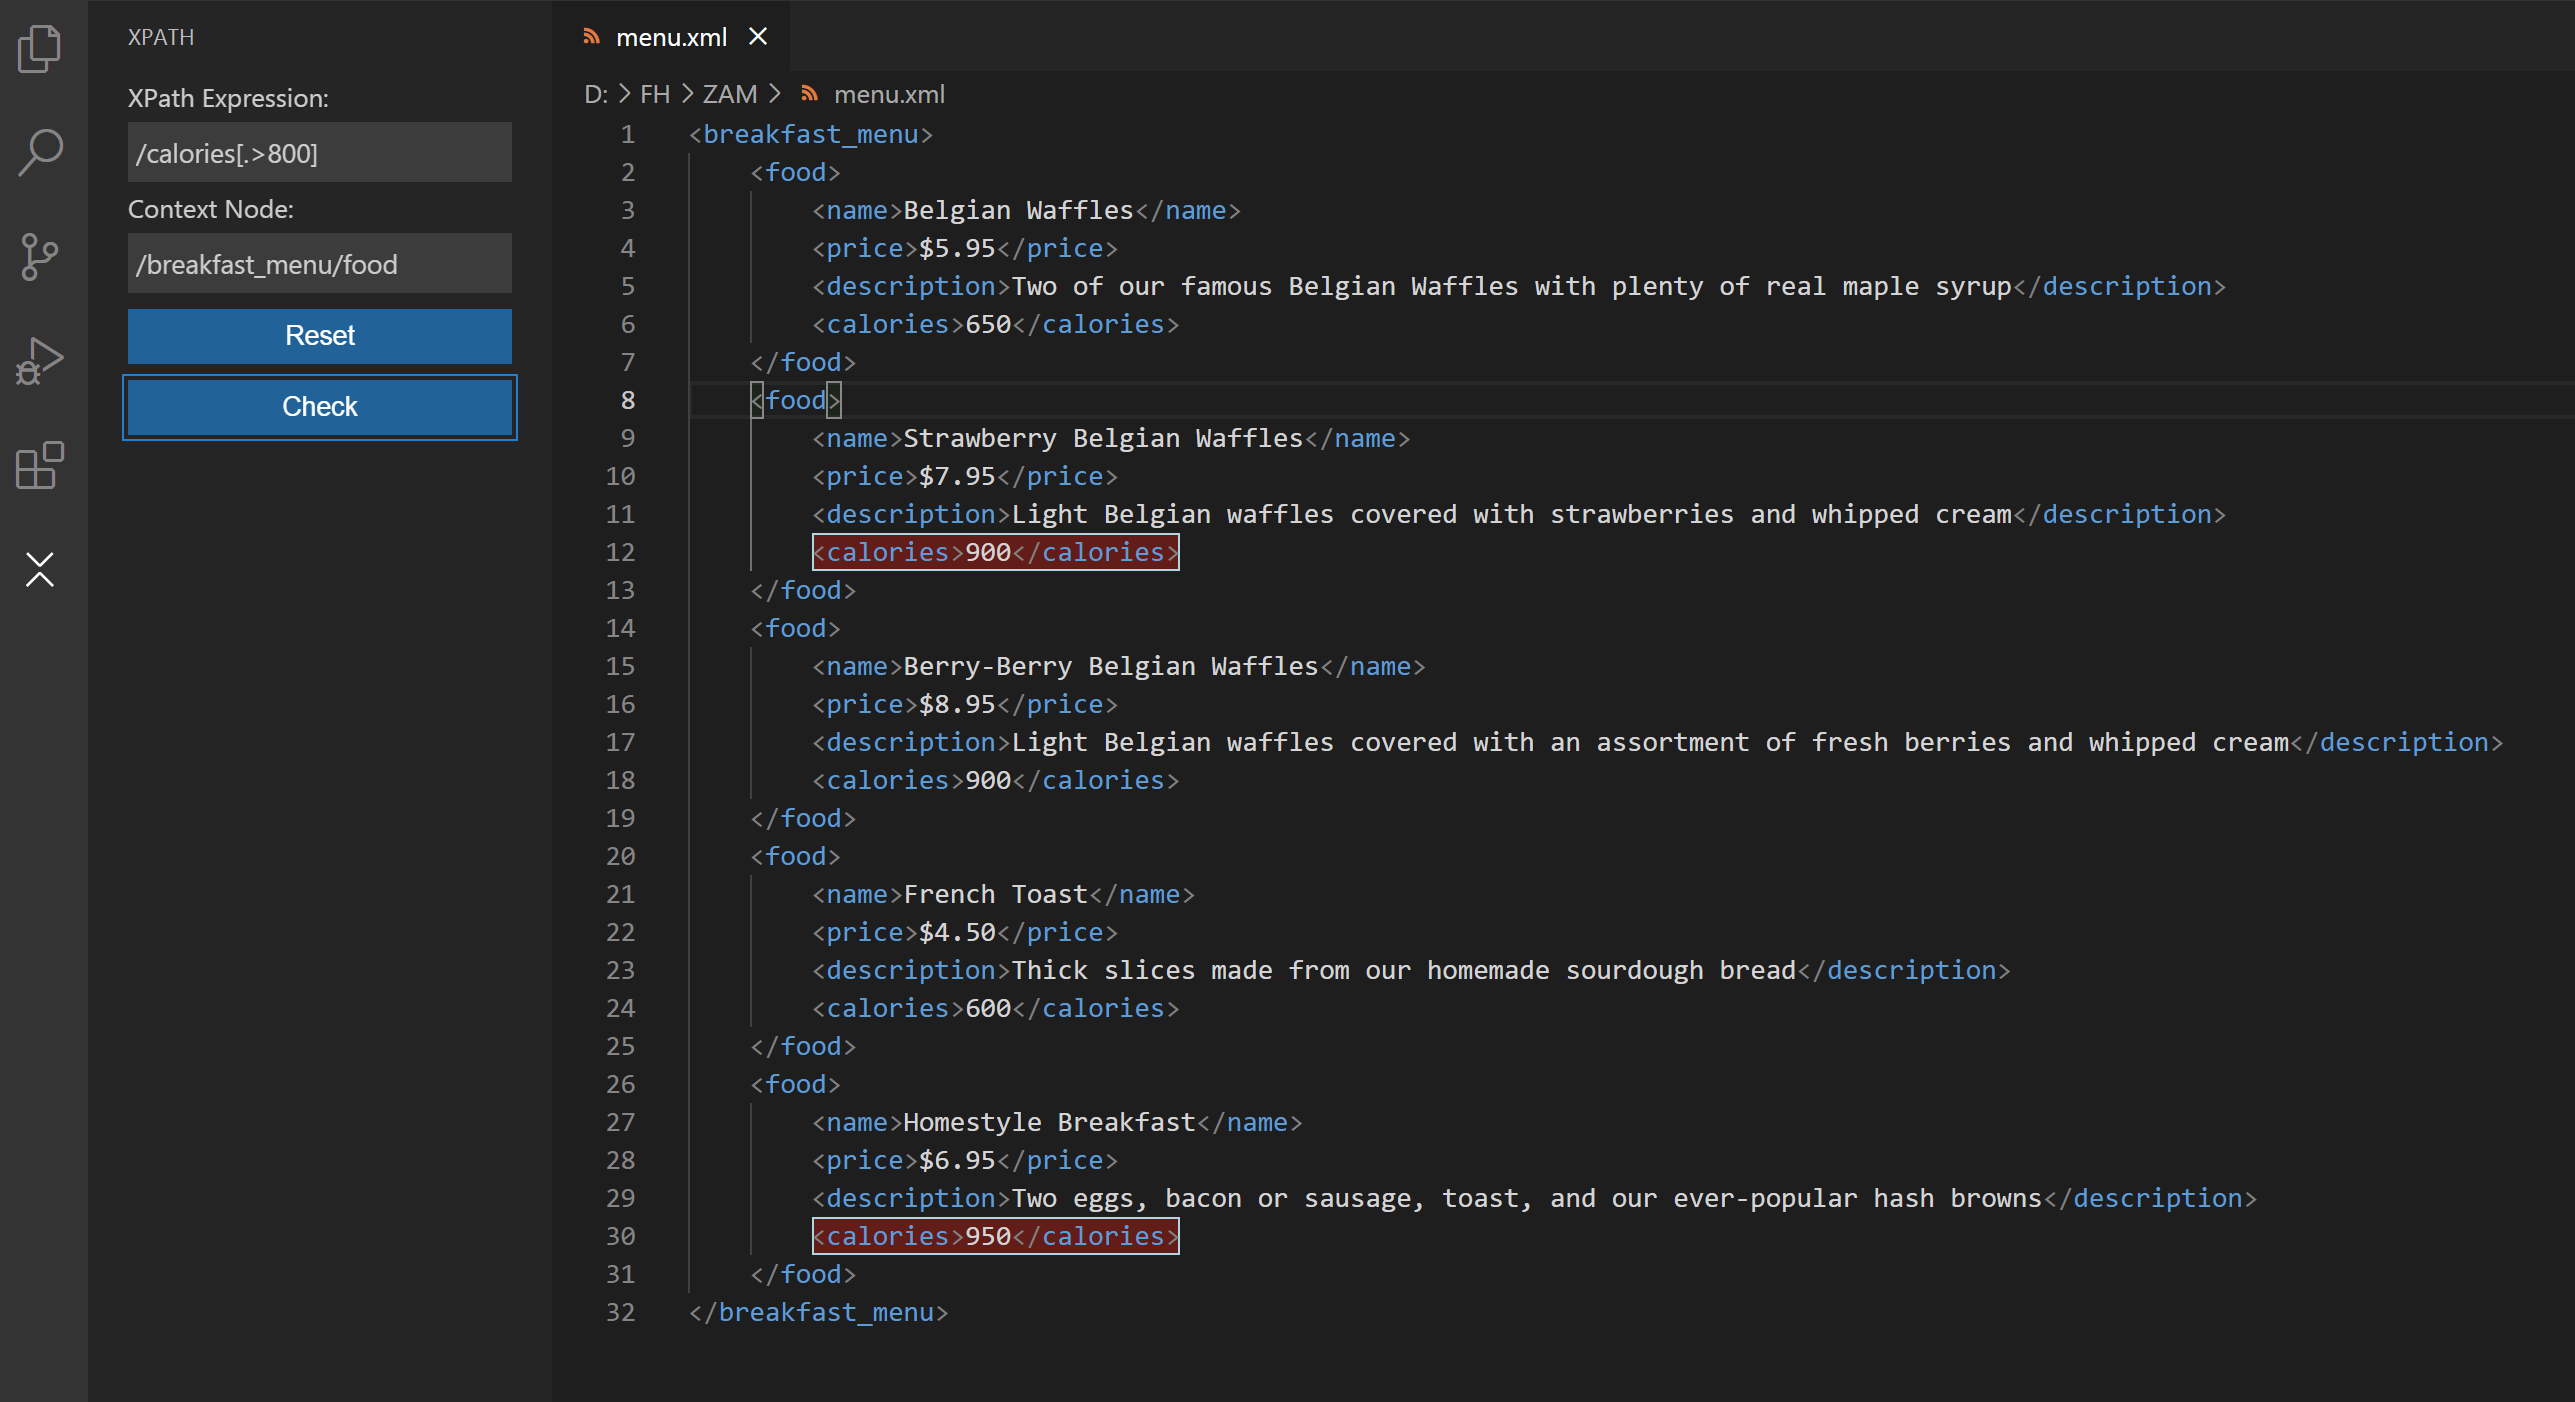
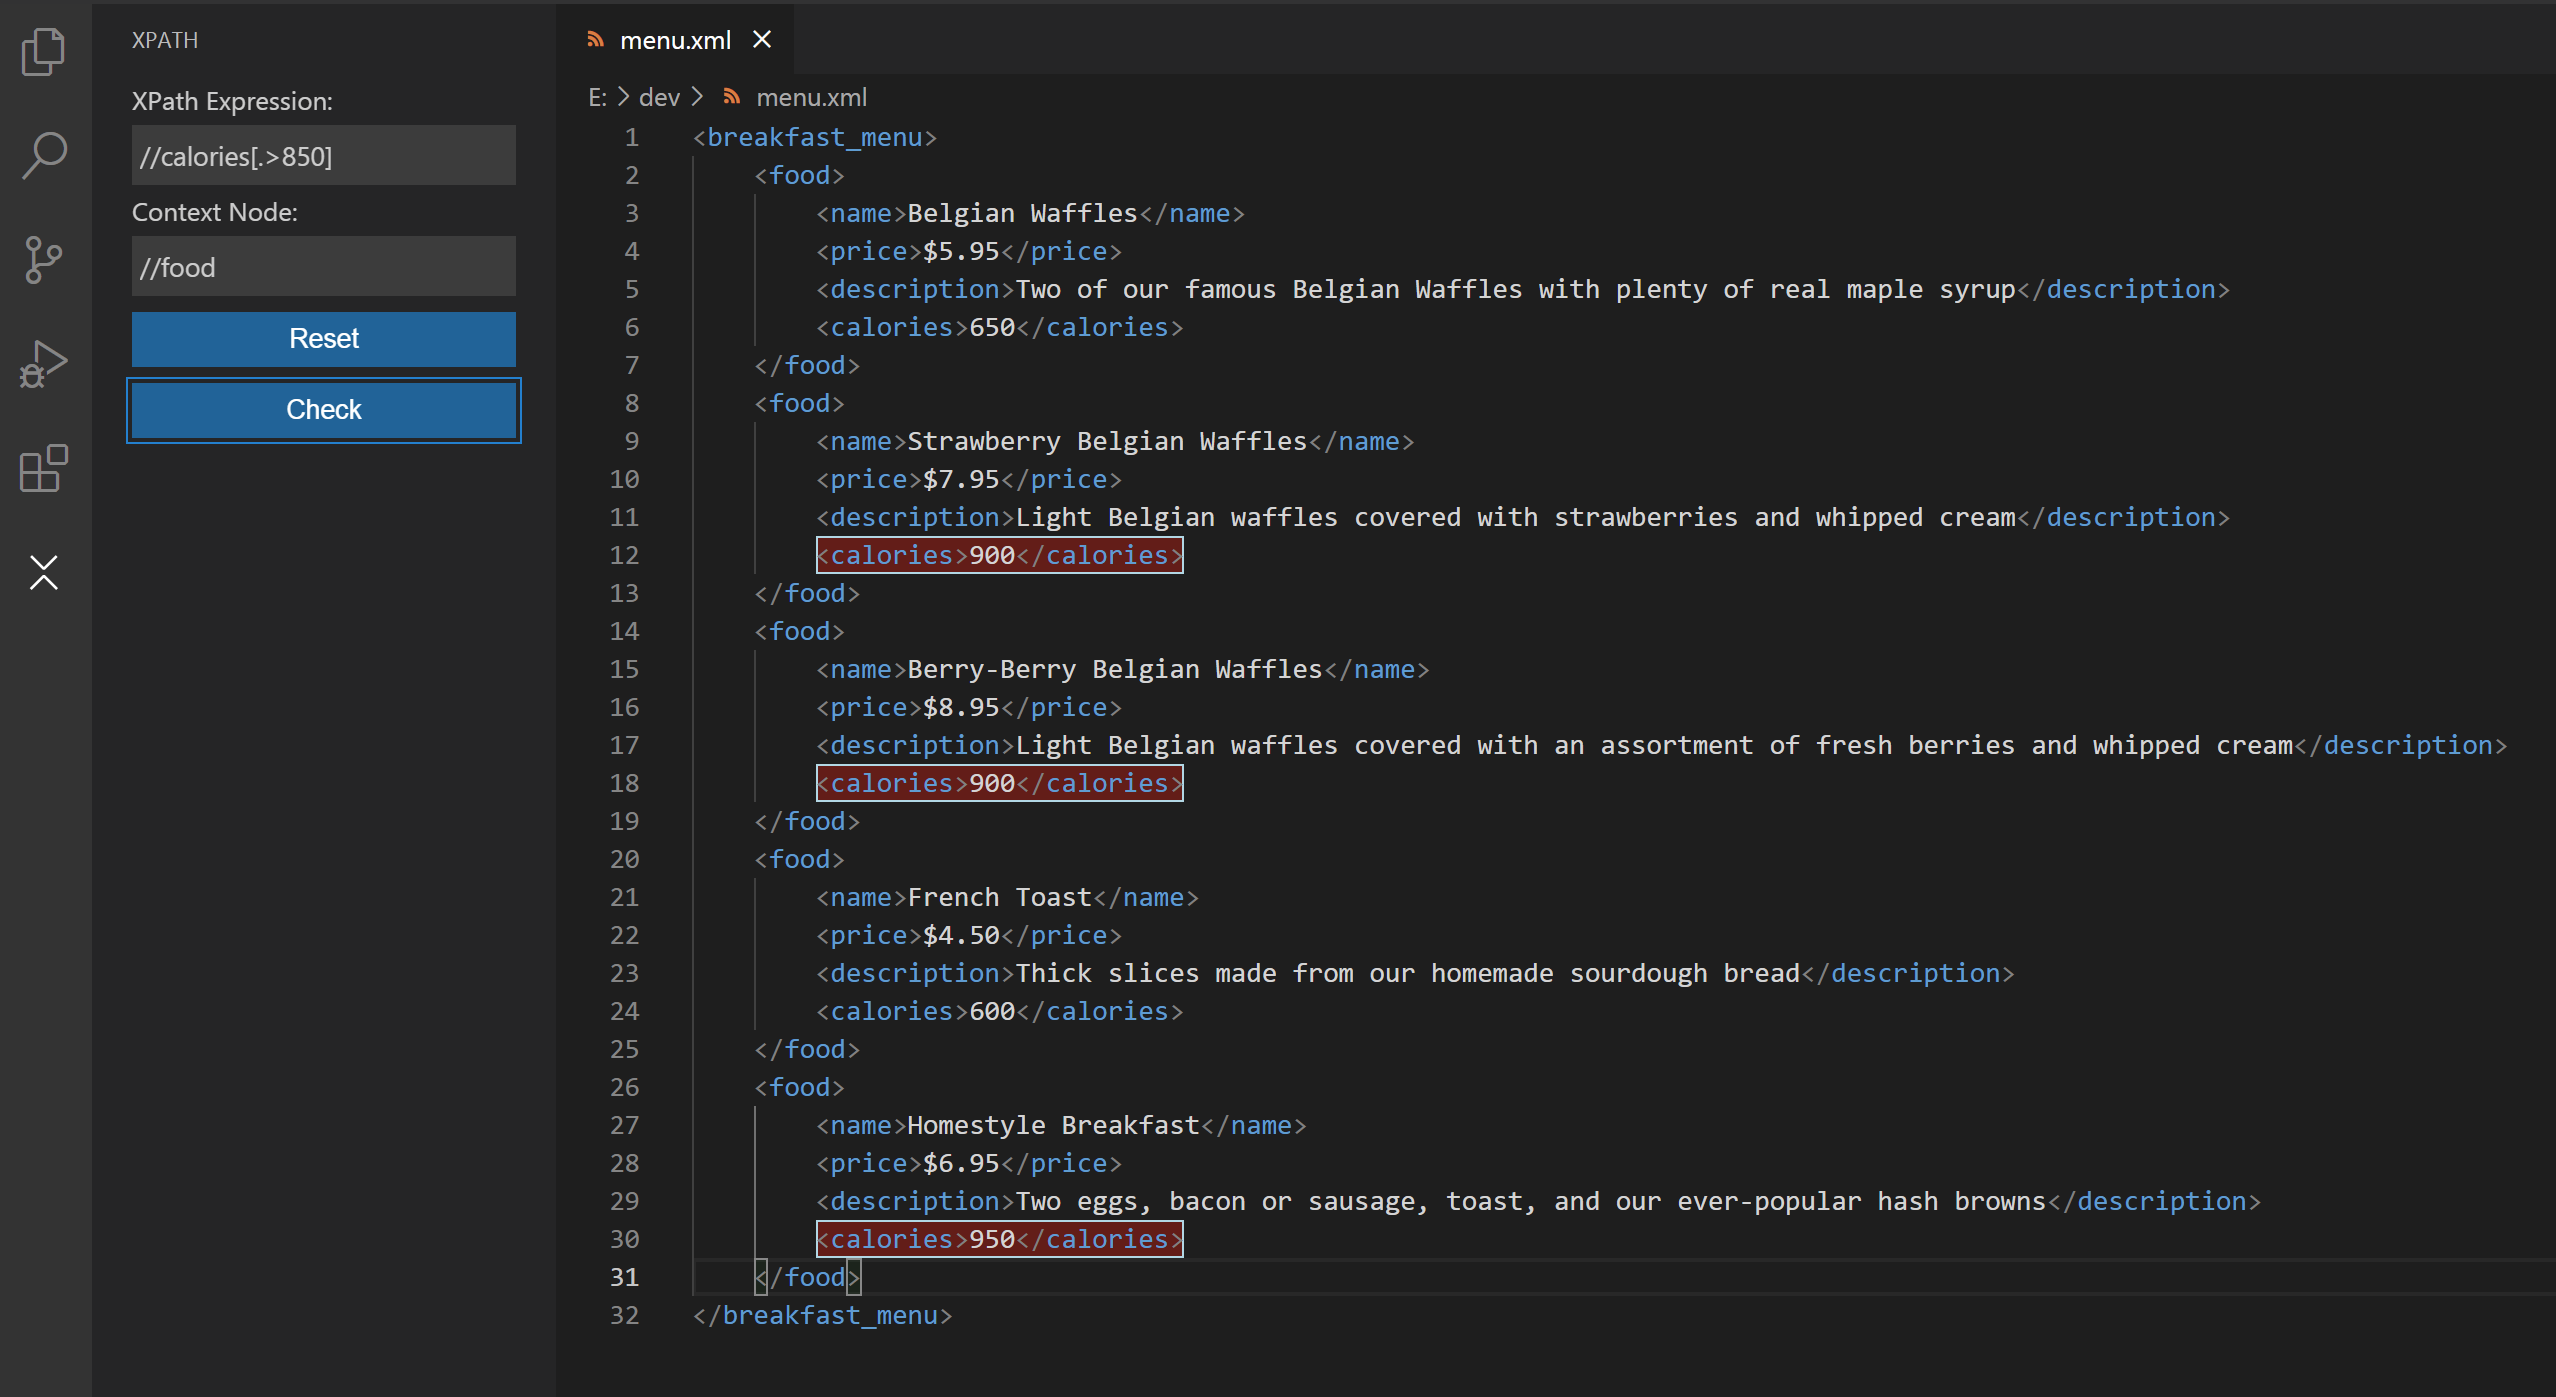
results are now only highlighted when they really are part of the context node

diff --git a/src/SidebarProvider.ts b/src/SidebarProvider.ts
@@ -1,6 +1,6 @@
 import * as vscode from "vscode";
 import { getNonce } from "./getNonce";
-import { Query } from "./types";
+import { Query, QueryResult } from "./types";
 import { XPathWrapper } from "./XPathWrapper";
 
 export class SidebarProvider implements vscode.WebviewViewProvider {
@@ -91,7 +91,7 @@ export class SidebarProvider implements vscode.WebviewViewProvider {
       return;
     }
 
-    let queryResult: string[];
+    let queryResult: QueryResult[];
     try {
       queryResult = this.xpathWrapper.checkXPath(query, xml);
       this.updateDecorations(queryResult);
@@ -100,7 +100,24 @@ export class SidebarProvider implements vscode.WebviewViewProvider {
     }
   }
 
-  private updateDecorations(queryResult: string[]) {
+  private addDecoration(
+    activeTextEditor: vscode.TextEditor,
+    match: number,
+    result: QueryResult,
+    xpathResults: vscode.DecorationOptions[]
+  ) {
+    const startPos = activeTextEditor.document.positionAt(match);
+    const endPos = activeTextEditor.document.positionAt(
+      match + result.foundNode.length
+    );
+    const decoration = {
+      range: new vscode.Range(startPos, endPos),
+      hoverMessage: "Result **" + result.foundNode + "**",
+    };
+    xpathResults.push(decoration);
+  }
+
+  private updateDecorations(queryResult: QueryResult[]) {
     const { activeTextEditor } = vscode.window;
 
     if (!activeTextEditor) {
@@ -109,19 +126,34 @@ export class SidebarProvider implements vscode.WebviewViewProvider {
     const text = activeTextEditor.document.getText();
     const xpathResults: vscode.DecorationOptions[] = [];
 
-    let match;
+    let match: number;
     queryResult.forEach((result) => {
-      match = text.indexOf(result);
-      const startPos = activeTextEditor.document.positionAt(match);
-      const endPos = activeTextEditor.document.positionAt(
-        match + result.length
-      );
-
-      const decoration = {
-        range: new vscode.Range(startPos, endPos),
-        hoverMessage: "Result **" + result + "**",
-      };
-      xpathResults.push(decoration);
+      if (result.contextNode) {
+        //we need to search for children only inside the context node
+        let foundIndex = text.indexOf(result.contextNode, 0);
+        let foundLastIndex = -1;
+        while (foundIndex > -1) {
+          match = text.indexOf(result.foundNode, foundIndex);
+          foundLastIndex = match + result.contextNode.length;
+          while (match > -1 && match < foundLastIndex) {
+            this.addDecoration(activeTextEditor, match, result, xpathResults);
+            match = text.indexOf(
+              result.foundNode,
+              match + result.foundNode.length
+            );
+          }
+          foundIndex = text.indexOf(result.contextNode, foundLastIndex - 1);
+        }
+      } else {
+        match = text.indexOf(result.foundNode);
+        while (match > -1) {
+          this.addDecoration(activeTextEditor, match, result, xpathResults);
+          match = text.indexOf(
+            result.foundNode,
+            match + result.foundNode.length
+          );
+        }
+      }
     });
 
     activeTextEditor.setDecorations(

diff --git a/src/XPathWrapper.ts b/src/XPathWrapper.ts
@@ -1,33 +1,35 @@
-import { Query } from "./types";
+import { Query, QueryResult } from "./types";
 
 export class XPathWrapper {
   private xpath = require("xpath");
   private dom = require("xmldom").DOMParser;
 
-  public checkXPath(query: Query, xml: string): string[] {
+  public checkXPath(query: Query, xml: string): QueryResult[] {
     if (!query.expression) {
       return [];
     }
     const doc = new this.dom().parseFromString(xml);
 
-    if (query.contextnode) {
-      return this.nodesToResultArray(this.evaluateXPath(query, doc));
+    if (query.contextNode) {
+      return this.evaluateXPath(query, doc);
     } else {
       return this.nodesToResultArray(this.selectXPath(query.expression, doc));
     }
   }
 
-  private nodesToResultArray(nodeArray: any[]): string[] {
-    let resultArray: string[] = [];
-    nodeArray.forEach((node) => {
-      resultArray.push(node.toString());
-    });
+  private nodesToResultArray(nodeArray: any[]): QueryResult[] {
+    let resultArray: QueryResult[] = [];
+    nodeArray.forEach((node) =>
+      resultArray.push({
+        foundNode: node.toString(),
+      })
+    );
     return resultArray;
   }
 
-  private evaluateXPath(query: Query, doc: any): any[] {
-    let contextNodes = this.selectXPath(query.contextnode, doc);
-    let resultArray: any[] = [];
+  private evaluateXPath(query: Query, doc: any): QueryResult[] {
+    let contextNodes = this.selectXPath(query.contextNode, doc);
+    let resultArray: QueryResult[] = [];
 
     contextNodes.forEach((contextNode) => {
       console.log("Context-Node: " + contextNode.toString());
@@ -46,14 +48,17 @@ export class XPathWrapper {
           "Expression '" +
             query.expression +
             "'not found in for context node '" +
-            query.contextnode +
+            query.contextNode +
             "'"
         );
       } else {
         let result = results.iterateNext();
 
         while (result) {
-          resultArray.push(result);
+          resultArray.push({
+            contextNode: contextNode.toString(),
+            foundNode: result.toString(),
+          });
           result = results.iterateNext();
         }
       }

diff --git a/webviews/components/sidebar.svelte b/webviews/components/sidebar.svelte
@@ -9,7 +9,7 @@
     console.log("check called: " + exp);
     tsvscode.postMessage({
       type: "onCheck",
-      value: { expression: exp, contextnode: context },
+      value: { expression: exp, contextNode: context },
     });
   }
 

diff --git a/src/types.ts b/src/types.ts
@@ -1,4 +1,9 @@
 export type Query = {
   expression: string;
-  contextnode: string;
+  contextNode: string;
+};
+
+export type QueryResult = {
+  foundNode: string;
+  contextNode?: string;
 };
